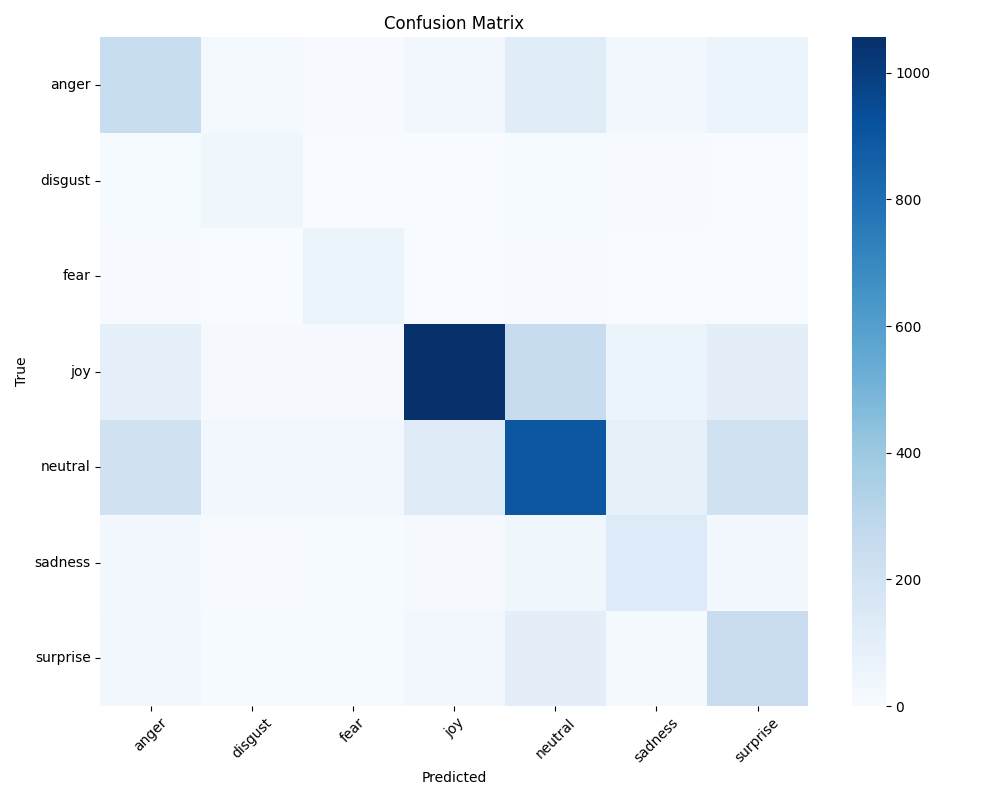
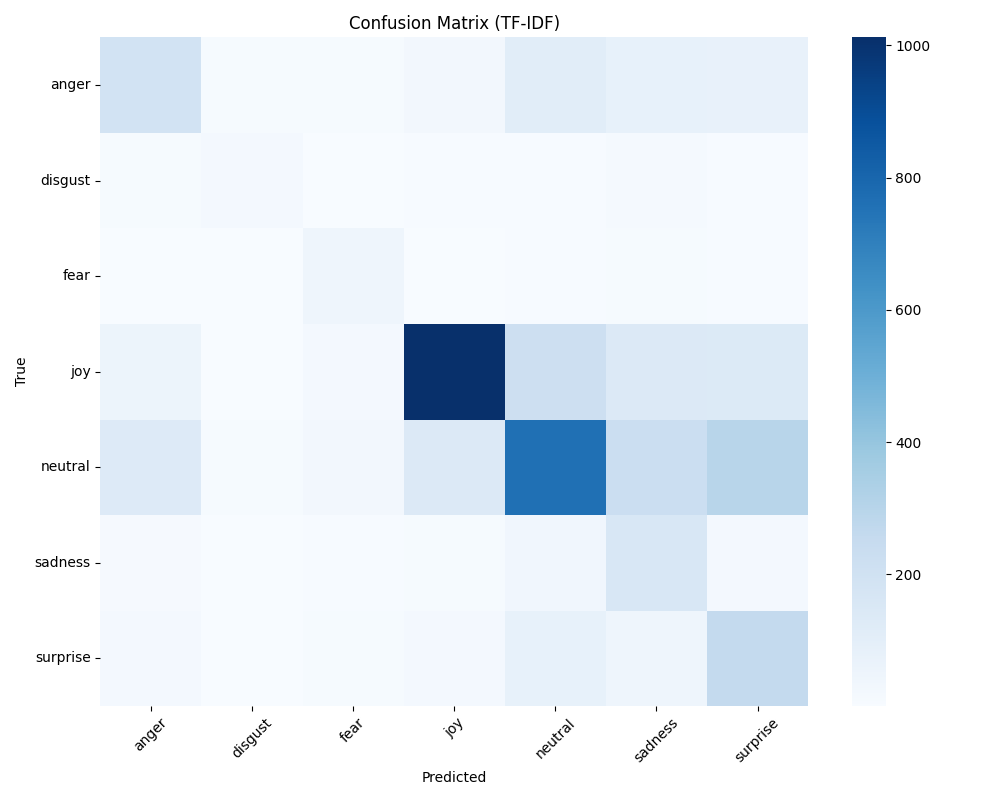
Extra task

diff --git a/model.py b/model.py
@@ -2,53 +2,106 @@ import os
 import pandas as pd
 import matplotlib
 matplotlib.use("Agg")
+
 import seaborn as sns
 import matplotlib.pyplot as plt
+
 from sklearn.pipeline import Pipeline
 from sklearn.linear_model import LogisticRegression
-from sklearn.feature_extraction.text import TfidfVectorizer
-from sklearn.metrics import (classification_report, accuracy_score, confusion_matrix, f1_score)
+from sklearn.feature_extraction.text import TfidfVectorizer, CountVectorizer
+from sklearn.metrics import accuracy_score, confusion_matrix, f1_score
 
+
+# --- LOAD DATA ---
 def load_data(file):
     path = os.path.join(os.path.dirname(os.path.abspath(__file__)), file)
     df = pd.read_csv(path, sep="\t", header=None, names=["text", "label"])
     df["text"] = df["text"].fillna("")
     return df["text"], df["label"]
 
+
+# --- EVALUATION ---
+def evaluate_model(name, model, X_train, y_train, X_dev, y_dev, X_test, y_test):
+    print(f"\n===== {name} =====")
+
+    model.fit(X_train, y_train)
+
+    # DEV
+    y_dev_pred = model.predict(X_dev)
+    print("DEV Accuracy:", accuracy_score(y_dev, y_dev_pred))
+    print("DEV Macro F1:", f1_score(y_dev, y_dev_pred, average="macro"))
+
+    # TEST
+    y_test_pred = model.predict(X_test)
+    print("TEST Accuracy:", accuracy_score(y_test, y_test_pred))
+    print("TEST Macro F1:", f1_score(y_test, y_test_pred, average="macro"))
+
+    return y_test_pred
+
+
 if __name__ == "__main__":
+    # --- DATA ---
     X_train, y_train = load_data("train_tokenized.tsv")
     X_dev, y_dev = load_data("dev_tokenized.tsv")
     X_test, y_test = load_data("test_tokenized.tsv")
 
-    model = Pipeline([
-        ("vectorizer", TfidfVectorizer(max_features=15000)),
-        ("classifier", LogisticRegression(class_weight="balanced", max_iter=300))
+    # --- TF-IDF MODEL ---
+    tfidf_model = Pipeline([
+        ("vectorizer", TfidfVectorizer(max_features=10000)),
+        ("classifier", LogisticRegression(
+            solver="saga",
+            max_iter=200,
+            class_weight="balanced",
+            n_jobs=-1
+        ))
     ])
-    model.fit(X_train, y_train)
 
-    y_pred_dev = model.predict(X_dev)
-    print("\n=== DEV RESULTS ===")
-    print("Accuracy:", accuracy_score(y_dev, y_pred_dev))
-    print(classification_report(y_dev, y_pred_dev, zero_division=0))
-    print("Macro F1 (DEV):", f1_score(y_dev, y_pred_dev, average="macro"))
-    print("Micro F1 (DEV):", f1_score(y_dev, y_pred_dev, average="micro"))
+    # --- COUNT MODEL (with n-grams) ---
+    count_model = Pipeline([
+        ("vectorizer", CountVectorizer(
+            ngram_range=(1,2),
+            max_features=8000
+        )),
+        ("classifier", LogisticRegression(
+            solver="saga",
+            max_iter=200,
+            class_weight="balanced",
+            n_jobs=-1
+        ))
+    ])
 
-    y_pred_test = model.predict(X_test)
-    print("\n=== TEST RESULTS ===")
-    print("Accuracy:", accuracy_score(y_test, y_pred_test))
-    print(classification_report(y_test, y_pred_test, zero_division=0))
-    print("Macro F1 (TEST):", f1_score(y_test, y_pred_test, average="macro"))
-    print("Micro F1 (TEST):", f1_score(y_test, y_pred_test, average="micro"))
+    # --- RUN BOTH MODELS ---
+    y_pred_tfidf = evaluate_model(
+        "TF-IDF",
+        tfidf_model,
+        X_train, y_train,
+        X_dev, y_dev,
+        X_test, y_test
+    )
 
+    y_pred_count = evaluate_model(
+        "CountVectorizer",
+        count_model,
+        X_train, y_train,
+        X_dev, y_dev,
+        X_test, y_test
+    )
+
+    # --- CONFUSION MATRIX (TF-IDF) ---
     labels = sorted(y_test.unique())
-    cm = confusion_matrix(y_test, y_pred_test, labels=labels)
-    plt.figure(figsize=(10,8))
-    sns.heatmap(cm, annot=False, cmap="Blues", xticklabels=labels, yticklabels=labels)
+    cm = confusion_matrix(y_test, y_pred_tfidf, labels=labels)
+
+    plt.figure(figsize=(10, 8))
+    sns.heatmap(cm, cmap="Blues",
+                xticklabels=labels,
+                yticklabels=labels)
+
     plt.xlabel("Predicted")
     plt.ylabel("True")
-    plt.title("Confusion Matrix")
+    plt.title("Confusion Matrix (TF-IDF)")
     plt.xticks(rotation=45)
     plt.yticks(rotation=0)
     plt.tight_layout()
+
     plt.savefig("confusion_matrix.png")
-    print("Confusion matrix saved to file")
+    print("\nConfusion matrix saved to file")
